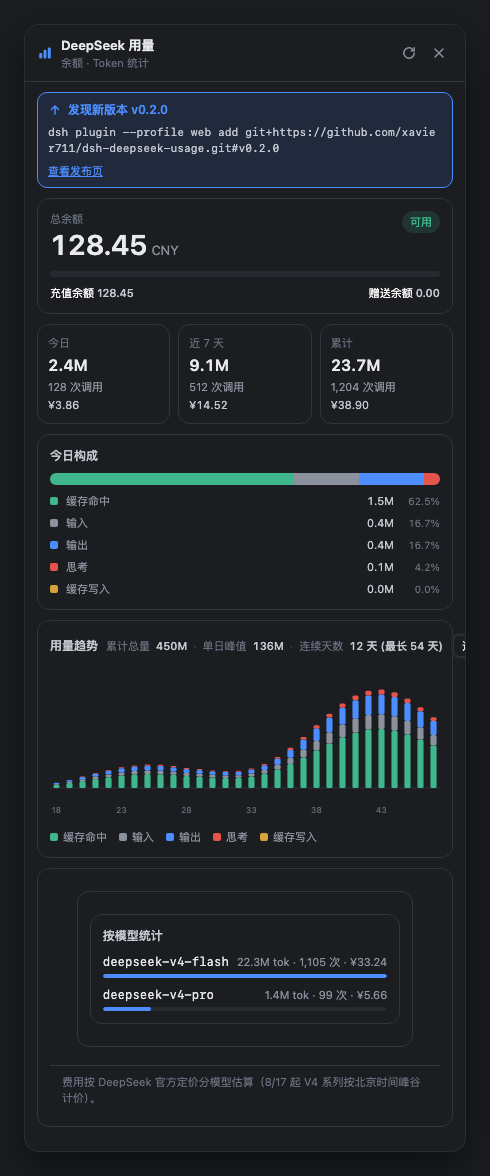
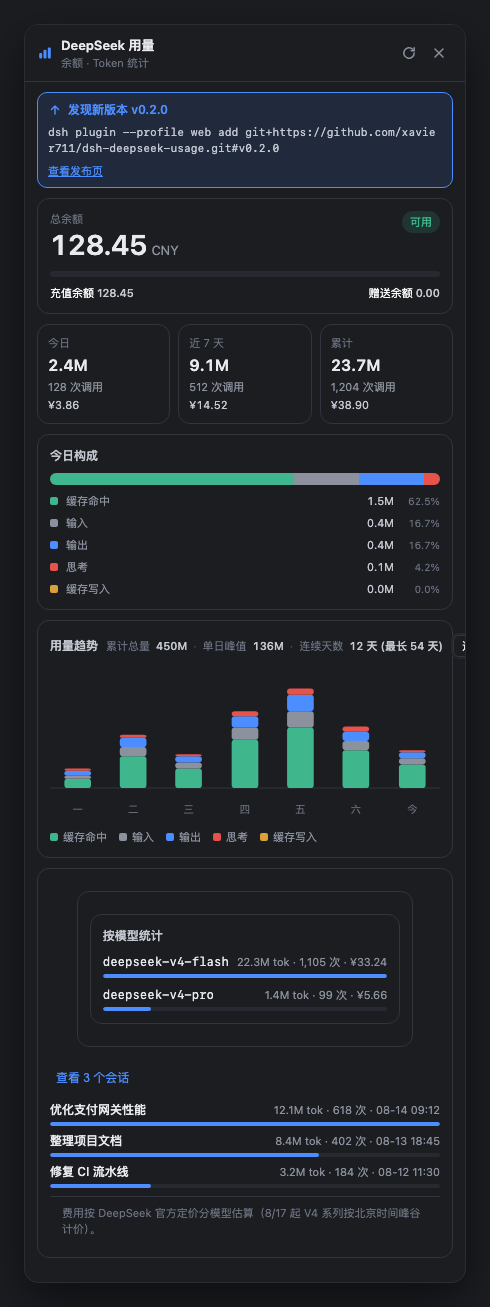
docs: resync preview with the live panel
- Trend card now shows the default 近 7 天 view (7 bars + weekday labels),
  matching the plugin's default range
- Restored the sessions section (toggle + 3 rows) that was missing from the
  mockup
- Removed leftover tab CSS; added hover/tooltip rules
- Screenshots regenerated at 490x1307 (panel 442x1259, zero blank)

Changed region(s): [[0.0612, 0.0306, 0.9184, 0.6735], [0.0918, 0.7041, 0.8878, 0.949], [0.3367, 0.2449, 0.3673, 0.2755]]

diff --git a/screenshots/preview.html b/screenshots/preview.html
@@ -76,11 +76,6 @@
   .du-body:hover,.du-body:active{scrollbar-color:var(--dsw-alias-scrollbar-bg-l2) transparent}
   .du-body:hover::-webkit-scrollbar-thumb,.du-body:active::-webkit-scrollbar-thumb{background:var(--dsw-alias-scrollbar-bg-l2)}
   .du-body:hover::-webkit-scrollbar-thumb:hover{background:var(--dsw-alias-scrollbar-hover-l2)}
-  .du-tabs{box-sizing:border-box;border-bottom:1px solid var(--dsw-alias-border-l2);flex:none;align-items:center;gap:2px;padding:0 12px;display:flex}
-  .du-tab{box-sizing:border-box;height:32px;color:var(--dsw-alias-label-tertiary);cursor:pointer;background:0 0;border:none;position:relative;padding:0 10px;font-family:inherit;font-size:12px;line-height:32px}
-  .du-tab:hover{color:var(--dsw-alias-label-primary)}
-  .du-tabActive{box-sizing:border-box;height:32px;color:var(--dsw-alias-label-primary);cursor:pointer;background:0 0;border:none;position:relative;padding:0 10px;font-family:inherit;font-size:12px;font-weight:500;line-height:32px}
-  .du-tabActive::after{background:var(--dsw-alias-state-business-primary);content:"";border-radius:1px 1px 0 0;height:2px;position:absolute;bottom:0;left:10px;right:10px}
   .du-footer{border-top:1px solid var(--dsw-alias-border-l2);flex:none;color:var(--dsw-alias-label-caption);padding:8px 12px;font-size:11px;line-height:16px}
   .du-card{box-sizing:border-box;border:1px solid var(--dsw-alias-border-l2);background:var(--dsw-alias-bg-base);border-radius:12px;flex-direction:column;gap:8px;min-width:0;padding:12px;display:flex;margin:10px auto}
   .du-body > .du-card:first-child{margin-top:0}
@@ -166,6 +161,16 @@
   .du-updateLink{color:var(--dsw-alias-state-business-primary);flex:none;font-size:11px;line-height:16px}
   .du-note{color:var(--dsw-alias-label-caption);margin:10px 0 0;font-size:11px;line-height:16px}
   .du-empty{color:var(--dsw-alias-label-caption);font-size:11px;line-height:16px}
+  .du-iconButton:hover:not(:disabled){background:var(--dsw-alias-interactive-bg-hover);color:var(--dsw-alias-label-secondary)}
+  .du-iconButton:disabled{opacity:.4;cursor:default}
+  .du-segBtn:hover{color:var(--dsw-alias-label-primary)}
+  .du-activityCell[data-dim]{opacity:.25}
+  .du-tip{z-index:40;border:1px solid var(--dsw-alias-border-l1);background:var(--dsw-alias-bg-layer-2,var(--dsw-alias-bg-base));border-radius:8px;box-shadow:var(--dsw-shadow-lv2,0 8px 24px rgba(0,0,0,.35));flex-direction:column;gap:2px;padding:6px 9px;font-size:11px;line-height:16px;pointer-events:none;position:fixed;transform:translate(-50%,-100%);white-space:nowrap;display:flex}
+  .du-tipHeading{color:var(--dsw-alias-label-primary);font-weight:600;margin-bottom:2px}
+  .du-tipRow{flex:none;align-items:center;gap:6px;color:var(--dsw-alias-label-tertiary);display:flex}
+  .du-tipDot{width:8px;height:8px;border-radius:2px;flex:none}
+  .du-tipLabel{min-width:0;flex:1}
+  .du-tipRow b{color:var(--dsw-alias-label-secondary);font-variant-numeric:tabular-nums;flex:none;font-weight:500}
 </style>
 </head>
 <body data-theme="dark">
@@ -245,7 +250,83 @@
         </div>
         <svg viewBox="0 0 380 150" class="du-chart du-bars" role="img" aria-label="用量趋势">
           <line x1="0" y1="118" x2="380" y2="118" style="stroke:var(--dsw-alias-border-l2);stroke-width:1"></line>
-          <g class="du-barGroup"><rect x="3.3" y="114.7" width="6" height="3.3" rx="1.5" style="fill:var(--du-cacheRead)"></rect><rect x="3.3" y="113.9" width="6" height="0.8" rx="1.5" style="fill:var(--du-input)"></rect><rect x="3.3" y="112.8" width="6" height="1.1" rx="1.5" style="fill:var(--du-output)"></rect><text x="6.3" y="142" text-anchor="middle" style="fill:var(--dsw-alias-label-caption);font-size:8px">18</text></g><g class="du-barGroup"><rect x="16.0" y="113.1" width="6" height="4.9" rx="1.5" style="fill:var(--du-cacheRead)"></rect><rect x="16.0" y="111.8" width="6" height="1.2" rx="1.5" style="fill:var(--du-input)"></rect><rect x="16.0" y="110.2" width="6" height="1.6" rx="1.5" style="fill:var(--du-output)"></rect></g><g class="du-barGroup"><rect x="28.7" y="111.2" width="6" height="6.8" rx="1.5" style="fill:var(--du-cacheRead)"></rect><rect x="28.7" y="109.5" width="6" height="1.7" rx="1.5" style="fill:var(--du-input)"></rect><rect x="28.7" y="107.2" width="6" height="2.3" rx="1.5" style="fill:var(--du-output)"></rect><rect x="28.7" y="106.6" width="6" height="0.6" rx="1.5" style="fill:var(--du-reasoning)"></rect></g><g class="du-barGroup"><rect x="41.3" y="109.2" width="6" height="8.8" rx="1.5" style="fill:var(--du-cacheRead)"></rect><rect x="41.3" y="107.0" width="6" height="2.2" rx="1.5" style="fill:var(--du-input)"></rect><rect x="41.3" y="104.1" width="6" height="2.9" rx="1.5" style="fill:var(--du-output)"></rect><rect x="41.3" y="103.3" width="6" height="0.7" rx="1.5" style="fill:var(--du-reasoning)"></rect></g><g class="du-barGroup"><rect x="54.0" y="107.4" width="6" height="10.6" rx="1.5" style="fill:var(--du-cacheRead)"></rect><rect x="54.0" y="104.7" width="6" height="2.7" rx="1.5" style="fill:var(--du-input)"></rect><rect x="54.0" y="101.1" width="6" height="3.5" rx="1.5" style="fill:var(--du-output)"></rect><rect x="54.0" y="100.3" width="6" height="0.9" rx="1.5" style="fill:var(--du-reasoning)"></rect></g><g class="du-barGroup"><rect x="66.7" y="105.8" width="6" height="12.2" rx="1.5" style="fill:var(--du-cacheRead)"></rect><rect x="66.7" y="102.8" width="6" height="3.0" rx="1.5" style="fill:var(--du-input)"></rect><rect x="66.7" y="98.7" width="6" height="4.1" rx="1.5" style="fill:var(--du-output)"></rect><rect x="66.7" y="97.7" width="6" height="1.0" rx="1.5" style="fill:var(--du-reasoning)"></rect><text x="69.7" y="142" text-anchor="middle" style="fill:var(--dsw-alias-label-caption);font-size:8px">23</text></g><g class="du-barGroup"><rect x="79.3" y="104.7" width="6" height="13.3" rx="1.5" style="fill:var(--du-cacheRead)"></rect><rect x="79.3" y="101.4" width="6" height="3.3" rx="1.5" style="fill:var(--du-input)"></rect><rect x="79.3" y="97.0" width="6" height="4.4" rx="1.5" style="fill:var(--du-output)"></rect><rect x="79.3" y="95.9" width="6" height="1.1" rx="1.5" style="fill:var(--du-reasoning)"></rect></g><g class="du-barGroup"><rect x="92.0" y="104.3" width="6" height="13.7" rx="1.5" style="fill:var(--du-cacheRead)"></rect><rect x="92.0" y="100.8" width="6" height="3.4" rx="1.5" style="fill:var(--du-input)"></rect><rect x="92.0" y="96.2" width="6" height="4.6" rx="1.5" style="fill:var(--du-output)"></rect><rect x="92.0" y="95.1" width="6" height="1.1" rx="1.5" style="fill:var(--du-reasoning)"></rect></g><g class="du-barGroup"><rect x="104.7" y="104.4" width="6" height="13.6" rx="1.5" style="fill:var(--du-cacheRead)"></rect><rect x="104.7" y="101.0" width="6" height="3.4" rx="1.5" style="fill:var(--du-input)"></rect><rect x="104.7" y="96.5" width="6" height="4.5" rx="1.5" style="fill:var(--du-output)"></rect><rect x="104.7" y="95.3" width="6" height="1.1" rx="1.5" style="fill:var(--du-reasoning)"></rect></g><g class="du-barGroup"><rect x="117.3" y="105.1" width="6" height="12.9" rx="1.5" style="fill:var(--du-cacheRead)"></rect><rect x="117.3" y="101.9" width="6" height="3.2" rx="1.5" style="fill:var(--du-input)"></rect><rect x="117.3" y="97.6" width="6" height="4.3" rx="1.5" style="fill:var(--du-output)"></rect><rect x="117.3" y="96.5" width="6" height="1.1" rx="1.5" style="fill:var(--du-reasoning)"></rect></g><g class="du-barGroup"><rect x="130.0" y="106.2" width="6" height="11.8" rx="1.5" style="fill:var(--du-cacheRead)"></rect><rect x="130.0" y="103.3" width="6" height="2.9" rx="1.5" style="fill:var(--du-input)"></rect><rect x="130.0" y="99.3" width="6" height="3.9" rx="1.5" style="fill:var(--du-output)"></rect><rect x="130.0" y="98.4" width="6" height="1.0" rx="1.5" style="fill:var(--du-reasoning)"></rect><text x="133.0" y="142" text-anchor="middle" style="fill:var(--dsw-alias-label-caption);font-size:8px">28</text></g><g class="du-barGroup"><rect x="142.7" y="106.9" width="6" height="11.1" rx="1.5" style="fill:var(--du-cacheRead)"></rect><rect x="142.7" y="104.1" width="6" height="2.8" rx="1.5" style="fill:var(--du-input)"></rect><rect x="142.7" y="100.4" width="6" height="3.7" rx="1.5" style="fill:var(--du-output)"></rect><rect x="142.7" y="99.5" width="6" height="0.9" rx="1.5" style="fill:var(--du-reasoning)"></rect></g><g class="du-barGroup"><rect x="155.3" y="107.7" width="6" height="10.3" rx="1.5" style="fill:var(--du-cacheRead)"></rect><rect x="155.3" y="105.1" width="6" height="2.6" rx="1.5" style="fill:var(--du-input)"></rect><rect x="155.3" y="101.7" width="6" height="3.4" rx="1.5" style="fill:var(--du-output)"></rect><rect x="155.3" y="100.8" width="6" height="0.9" rx="1.5" style="fill:var(--du-reasoning)"></rect></g><g class="du-barGroup"><rect x="168.0" y="108.1" width="6" height="9.9" rx="1.5" style="fill:var(--du-cacheRead)"></rect><rect x="168.0" y="105.7" width="6" height="2.5" rx="1.5" style="fill:var(--du-input)"></rect><rect x="168.0" y="102.4" width="6" height="3.3" rx="1.5" style="fill:var(--du-output)"></rect><rect x="168.0" y="101.6" width="6" height="0.8" rx="1.5" style="fill:var(--du-reasoning)"></rect></g><g class="du-barGroup"><rect x="180.7" y="107.9" width="6" height="10.1" rx="1.5" style="fill:var(--du-cacheRead)"></rect><rect x="180.7" y="105.4" width="6" height="2.5" rx="1.5" style="fill:var(--du-input)"></rect><rect x="180.7" y="102.0" width="6" height="3.4" rx="1.5" style="fill:var(--du-output)"></rect><rect x="180.7" y="101.2" width="6" height="0.8" rx="1.5" style="fill:var(--du-reasoning)"></rect></g><g class="du-barGroup"><rect x="193.3" y="106.6" width="6" height="11.4" rx="1.5" style="fill:var(--du-cacheRead)"></rect><rect x="193.3" y="103.7" width="6" height="2.9" rx="1.5" style="fill:var(--du-input)"></rect><rect x="193.3" y="99.9" width="6" height="3.8" rx="1.5" style="fill:var(--du-output)"></rect><rect x="193.3" y="98.9" width="6" height="1.0" rx="1.5" style="fill:var(--du-reasoning)"></rect><text x="196.3" y="142" text-anchor="middle" style="fill:var(--dsw-alias-label-caption);font-size:8px">33</text></g><g class="du-barGroup"><rect x="206.0" y="103.9" width="6" height="14.1" rx="1.5" style="fill:var(--du-cacheRead)"></rect><rect x="206.0" y="100.4" width="6" height="3.5" rx="1.5" style="fill:var(--du-input)"></rect><rect x="206.0" y="95.7" width="6" height="4.7" rx="1.5" style="fill:var(--du-output)"></rect><rect x="206.0" y="94.5" width="6" height="1.2" rx="1.5" style="fill:var(--du-reasoning)"></rect></g><g class="du-barGroup"><rect x="218.7" y="99.8" width="6" height="18.2" rx="1.5" style="fill:var(--du-cacheRead)"></rect><rect x="218.7" y="95.3" width="6" height="4.5" rx="1.5" style="fill:var(--du-input)"></rect><rect x="218.7" y="89.2" width="6" height="6.1" rx="1.5" style="fill:var(--du-output)"></rect><rect x="218.7" y="87.7" width="6" height="1.5" rx="1.5" style="fill:var(--du-reasoning)"></rect></g><g class="du-barGroup"><rect x="231.3" y="94.5" width="6" height="23.5" rx="1.5" style="fill:var(--du-cacheRead)"></rect><rect x="231.3" y="88.6" width="6" height="5.9" rx="1.5" style="fill:var(--du-input)"></rect><rect x="231.3" y="80.7" width="6" height="7.8" rx="1.5" style="fill:var(--du-output)"></rect><rect x="231.3" y="78.8" width="6" height="2.0" rx="1.5" style="fill:var(--du-reasoning)"></rect></g><g class="du-barGroup"><rect x="244.0" y="88.1" width="6" height="29.9" rx="1.5" style="fill:var(--du-cacheRead)"></rect><rect x="244.0" y="80.6" width="6" height="7.5" rx="1.5" style="fill:var(--du-input)"></rect><rect x="244.0" y="70.7" width="6" height="10.0" rx="1.5" style="fill:var(--du-output)"></rect><rect x="244.0" y="68.2" width="6" height="2.5" rx="1.5" style="fill:var(--du-reasoning)"></rect></g><g class="du-barGroup"><rect x="256.7" y="81.3" width="6" height="36.7" rx="1.5" style="fill:var(--du-cacheRead)"></rect><rect x="256.7" y="72.1" width="6" height="9.2" rx="1.5" style="fill:var(--du-input)"></rect><rect x="256.7" y="59.8" width="6" height="12.2" rx="1.5" style="fill:var(--du-output)"></rect><rect x="256.7" y="56.8" width="6" height="3.1" rx="1.5" style="fill:var(--du-reasoning)"></rect><text x="259.7" y="142" text-anchor="middle" style="fill:var(--dsw-alias-label-caption);font-size:8px">38</text></g><g class="du-barGroup"><rect x="269.3" y="74.5" width="6" height="43.5" rx="1.5" style="fill:var(--du-cacheRead)"></rect><rect x="269.3" y="63.6" width="6" height="10.9" rx="1.5" style="fill:var(--du-input)"></rect><rect x="269.3" y="49.1" width="6" height="14.5" rx="1.5" style="fill:var(--du-output)"></rect><rect x="269.3" y="45.5" width="6" height="3.6" rx="1.5" style="fill:var(--du-reasoning)"></rect></g><g class="du-barGroup"><rect x="282.0" y="68.5" width="6" height="49.5" rx="1.5" style="fill:var(--du-cacheRead)"></rect><rect x="282.0" y="56.1" width="6" height="12.4" rx="1.5" style="fill:var(--du-input)"></rect><rect x="282.0" y="39.6" width="6" height="16.5" rx="1.5" style="fill:var(--du-output)"></rect><rect x="282.0" y="35.5" width="6" height="4.1" rx="1.5" style="fill:var(--du-reasoning)"></rect></g><g class="du-barGroup"><rect x="294.7" y="63.8" width="6" height="54.2" rx="1.5" style="fill:var(--du-cacheRead)"></rect><rect x="294.7" y="50.3" width="6" height="13.5" rx="1.5" style="fill:var(--du-input)"></rect><rect x="294.7" y="32.3" width="6" height="18.1" rx="1.5" style="fill:var(--du-output)"></rect><rect x="294.7" y="27.7" width="6" height="4.5" rx="1.5" style="fill:var(--du-reasoning)"></rect></g><g class="du-barGroup"><rect x="307.3" y="61.0" width="6" height="57.0" rx="1.5" style="fill:var(--du-cacheRead)"></rect><rect x="307.3" y="46.8" width="6" height="14.2" rx="1.5" style="fill:var(--du-input)"></rect><rect x="307.3" y="27.8" width="6" height="19.0" rx="1.5" style="fill:var(--du-output)"></rect><rect x="307.3" y="23.1" width="6" height="4.7" rx="1.5" style="fill:var(--du-reasoning)"></rect></g><g class="du-barGroup"><rect x="320.0" y="60.4" width="6" height="57.6" rx="1.5" style="fill:var(--du-cacheRead)"></rect><rect x="320.0" y="46.0" width="6" height="14.4" rx="1.5" style="fill:var(--du-input)"></rect><rect x="320.0" y="26.8" width="6" height="19.2" rx="1.5" style="fill:var(--du-output)"></rect><rect x="320.0" y="22.0" width="6" height="4.8" rx="1.5" style="fill:var(--du-reasoning)"></rect><text x="323.0" y="142" text-anchor="middle" style="fill:var(--dsw-alias-label-caption);font-size:8px">43</text></g><g class="du-barGroup"><rect x="332.7" y="62.0" width="6" height="56.0" rx="1.5" style="fill:var(--du-cacheRead)"></rect><rect x="332.7" y="48.0" width="6" height="14.0" rx="1.5" style="fill:var(--du-input)"></rect><rect x="332.7" y="29.3" width="6" height="18.7" rx="1.5" style="fill:var(--du-output)"></rect><rect x="332.7" y="24.6" width="6" height="4.7" rx="1.5" style="fill:var(--du-reasoning)"></rect></g><g class="du-barGroup"><rect x="345.3" y="65.6" width="6" height="52.4" rx="1.5" style="fill:var(--du-cacheRead)"></rect><rect x="345.3" y="52.4" width="6" height="13.1" rx="1.5" style="fill:var(--du-input)"></rect><rect x="345.3" y="35.0" width="6" height="17.5" rx="1.5" style="fill:var(--du-output)"></rect><rect x="345.3" y="30.6" width="6" height="4.4" rx="1.5" style="fill:var(--du-reasoning)"></rect></g><g class="du-barGroup"><rect x="358.0" y="70.7" width="6" height="47.3" rx="1.5" style="fill:var(--du-cacheRead)"></rect><rect x="358.0" y="58.8" width="6" height="11.8" rx="1.5" style="fill:var(--du-input)"></rect><rect x="358.0" y="43.0" width="6" height="15.8" rx="1.5" style="fill:var(--du-output)"></rect><rect x="358.0" y="39.1" width="6" height="3.9" rx="1.5" style="fill:var(--du-reasoning)"></rect></g><g class="du-barGroup"><rect x="370.7" y="76.6" width="6" height="41.4" rx="1.5" style="fill:var(--du-cacheRead)"></rect><rect x="370.7" y="66.2" width="6" height="10.4" rx="1.5" style="fill:var(--du-input)"></rect><rect x="370.7" y="52.4" width="6" height="13.8" rx="1.5" style="fill:var(--du-output)"></rect><rect x="370.7" y="49.0" width="6" height="3.5" rx="1.5" style="fill:var(--du-reasoning)"></rect></g>
+<g class="du-barGroup">
+          <rect x="14" y="109" width="26" height="9" rx="3" style="fill:var(--du-cacheRead)">
+          </rect>
+          <rect x="14" y="106" width="26" height="3" rx="3" style="fill:var(--du-input)">
+          </rect>
+          <rect x="14" y="101" width="26" height="5" rx="3" style="fill:var(--du-output)">
+          </rect>
+          <rect x="14" y="99" width="26" height="2" rx="3" style="fill:var(--du-reasoning)">
+          </rect>
+          <text x="27" y="142" text-anchor="middle" style="fill:var(--dsw-alias-label-caption);font-size:10px">一</text>
+          </g>
+          <g class="du-barGroup">
+          <rect x="68" y="87" width="26" height="31" rx="3" style="fill:var(--du-cacheRead)">
+          </rect>
+          <rect x="68" y="78" width="26" height="9" rx="3" style="fill:var(--du-input)">
+          </rect>
+          <rect x="68" y="69" width="26" height="9" rx="3" style="fill:var(--du-output)">
+          </rect>
+          <rect x="68" y="66" width="26" height="3" rx="3" style="fill:var(--du-reasoning)">
+          </rect>
+          <text x="81" y="142" text-anchor="middle" style="fill:var(--dsw-alias-label-caption);font-size:10px">二</text>
+          </g>
+          <g class="du-barGroup">
+          <rect x="122" y="99" width="26" height="19" rx="3" style="fill:var(--du-cacheRead)">
+          </rect>
+          <rect x="122" y="93" width="26" height="6" rx="3" style="fill:var(--du-input)">
+          </rect>
+          <rect x="122" y="87" width="26" height="6" rx="3" style="fill:var(--du-output)">
+          </rect>
+          <rect x="122" y="85" width="26" height="2" rx="3" style="fill:var(--du-reasoning)">
+          </rect>
+          <text x="135" y="142" text-anchor="middle" style="fill:var(--dsw-alias-label-caption);font-size:10px">三</text>
+          </g>
+          <g class="du-barGroup">
+          <rect x="177" y="71" width="26" height="47" rx="3" style="fill:var(--du-cacheRead)">
+          </rect>
+          <rect x="177" y="59" width="26" height="12" rx="3" style="fill:var(--du-input)">
+          </rect>
+          <rect x="177" y="48" width="26" height="11" rx="3" style="fill:var(--du-output)">
+          </rect>
+          <rect x="177" y="43" width="26" height="5" rx="3" style="fill:var(--du-reasoning)">
+          </rect>
+          <text x="190" y="142" text-anchor="middle" style="fill:var(--dsw-alias-label-caption);font-size:10px">四</text>
+          </g>
+          <g class="du-barGroup">
+          <rect x="231" y="59" width="26" height="59" rx="3" style="fill:var(--du-cacheRead)">
+          </rect>
+          <rect x="231" y="43" width="26" height="16" rx="3" style="fill:var(--du-input)">
+          </rect>
+          <rect x="231" y="27" width="26" height="16" rx="3" style="fill:var(--du-output)">
+          </rect>
+          <rect x="231" y="21" width="26" height="6" rx="3" style="fill:var(--du-reasoning)">
+          </rect>
+          <text x="244" y="142" text-anchor="middle" style="fill:var(--dsw-alias-label-caption);font-size:10px">五</text>
+          </g>
+          <g class="du-barGroup">
+          <rect x="285" y="81" width="26" height="37" rx="3" style="fill:var(--du-cacheRead)">
+          </rect>
+          <rect x="285" y="72" width="26" height="9" rx="3" style="fill:var(--du-input)">
+          </rect>
+          <rect x="285" y="63" width="26" height="9" rx="3" style="fill:var(--du-output)">
+          </rect>
+          <rect x="285" y="58" width="26" height="5" rx="3" style="fill:var(--du-reasoning)">
+          </rect>
+          <text x="298" y="142" text-anchor="middle" style="fill:var(--dsw-alias-label-caption);font-size:10px">六</text>
+          </g>
+          <g class="du-barGroup">
+          <rect x="340" y="95" width="26" height="23" rx="3" style="fill:var(--du-cacheRead)">
+          </rect>
+          <rect x="340" y="89" width="26" height="6" rx="3" style="fill:var(--du-input)">
+          </rect>
+          <rect x="340" y="83" width="26" height="6" rx="3" style="fill:var(--du-output)">
+          </rect>
+          <rect x="340" y="81" width="26" height="2" rx="3" style="fill:var(--du-reasoning)">
+          </rect>
+          <text x="353" y="142" text-anchor="middle" style="fill:var(--dsw-alias-label-caption);font-size:10px">今</text>
+          </g>
         </svg>
         <div class="du-barLegend">
           <span class="du-barLegendItem"><span class="du-barLegendDot" style="background:var(--du-cacheRead)"></span>缓存命中</span>
@@ -265,6 +346,12 @@
       
       
     </div>
+    <button type="button" class="du-sessionToggle">查看 3 个会话</button>
+    <ul class="du-sessionList">
+      <li class="du-sessionRow"><div class="du-sessionHead"><span class="du-sessionTitle" title="优化支付网关性能">优化支付网关性能</span><span class="du-sessionMeta">12.1M tok · 618 次 · 08-14 09:12</span></div><div class="du-sessionBar"><span style="width:100%"></span></div></li>
+      <li class="du-sessionRow"><div class="du-sessionHead"><span class="du-sessionTitle" title="整理项目文档">整理项目文档</span><span class="du-sessionMeta">8.4M tok · 402 次 · 08-13 18:45</span></div><div class="du-sessionBar"><span style="width:69%"></span></div></li>
+      <li class="du-sessionRow"><div class="du-sessionHead"><span class="du-sessionTitle" title="修复 CI 流水线">修复 CI 流水线</span><span class="du-sessionMeta">3.2M tok · 184 次 · 08-12 11:30</span></div><div class="du-sessionBar"><span style="width:26%"></span></div></li>
+    </ul>
     <div class="du-footer">费用按 DeepSeek 官方定价分模型估算（8/17 起 V4 系列按北京时间峰谷计价）。</div>
   </div>
 </body>
